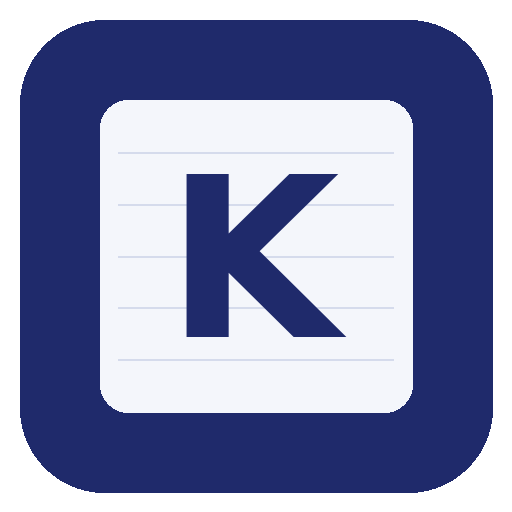
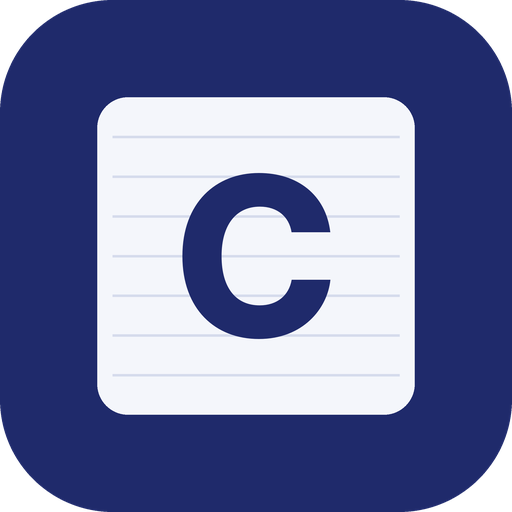
Rebrand website to CentraPlant on centraplant.com
- Brand name, app title and C icon across all pages
- CNAME moved to centraplant.com
- Tally Link renamed (CentraPlantTallyLink.ps1, v1.4) and removes the old Kalavara task on install
- Service worker suite-v69

Claude-Session: https://claude.ai/code/session_01Vw1GBJNaNCWaBvuJRSgbRt

Changed region(s): [[0.1875, 0.1875, 0.8125, 0.8125], [0.0, 0.0, 1.0, 1.0]]

diff --git a/assets/company.js b/assets/company.js
@@ -639,7 +639,7 @@
     return { call: call };
   })();
 
-  /* ---------------- 6. accounts: Kalavara books or Tally ---------------- */
+  /* ---------------- 6. accounts: CentraPlant books or Tally ---------------- */
   var ACC = null;
 
   function accCall(action, payload) {
@@ -685,20 +685,20 @@
     body.innerHTML = '<div class="panel"><h3>6. Accounts</h3>' +
       '<p class="muted" style="margin:0 0 16px">Where do you keep your accounts? Trade Recon, Cash Recon, Profit & Loss and the MIS Dashboard read the books from here.</p>' +
       '<div class="bk-modes">' +
-        '<label class="bk-mode' + (!tally ? " on" : "") + '"><input type="radio" name="accSrc" value="books"' + (!tally ? " checked" : "") + '><span><b>In Kalavara (Accounting-Books)</b><small>For companies without Tally. Ledgers, GST bills, receipts and payments, with Tally-style keys.</small></span></label>' +
-        '<label class="bk-mode' + (tally ? " on" : "") + '"><input type="radio" name="accSrc" value="tally"' + (tally ? " checked" : "") + '><span><b>In Tally</b><small>You already use Tally. Kalavara reads your ledgers, stock items and vouchers from it automatically.</small></span></label>' +
+        '<label class="bk-mode' + (!tally ? " on" : "") + '"><input type="radio" name="accSrc" value="books"' + (!tally ? " checked" : "") + '><span><b>In CentraPlant (Accounting-Books)</b><small>For companies without Tally. Ledgers, GST bills, receipts and payments, with Tally-style keys.</small></span></label>' +
+        '<label class="bk-mode' + (tally ? " on" : "") + '"><input type="radio" name="accSrc" value="tally"' + (tally ? " checked" : "") + '><span><b>In Tally</b><small>You already use Tally. CentraPlant reads your ledgers, stock items and vouchers from it automatically.</small></span></label>' +
       "</div>" +
       (tally ?
         '<div class="acc-tally">' +
           '<div class="acc-status">' + status + "</div>" + nameNote +
           '<ol class="acc-steps">' +
             "<li><b>Switch on Tally's connection.</b> In Tally: <b>F1 (Help) → Settings → Connectivity → Client/Server configuration</b>. Set <i>TallyPrime acts as</i> to <b>Both</b> and <i>Port</i> to <b>9000</b>, then Ctrl + A. Keep Tally open with <b>" + esc(a.company || "your company") + "</b> loaded.</li>" +
-            "<li><b>Download Kalavara Tally Link</b> on the PC where Tally runs. It's a small script, already paired with this company." +
+            "<li><b>Download CentraPlant Tally Link</b> on the PC where Tally runs. It's a small script, already paired with this company." +
               '<div class="row-actions" style="margin-top:8px"><button class="btn btn-ink btn-small" type="button" id="accKey">' + (a.linked ? "Download again (new code)" : "Pair and download") + "</button>" +
               (a.linked ? '<button class="btn btn-line btn-small btn-danger" type="button" id="accUnlink">Unpair</button>' : "") + "</div>" +
               (a.linked ? '<p class="muted" style="margin:6px 0 0">Paired with code ending …' + esc(a.keyHint) + ". Downloading again makes a new code; the old script stops working.</p>" : "") + "</li>" +
             "<li><b>Start it once.</b> Open <b>PowerShell</b> (Start → type PowerShell) and paste:" +
-              '<pre class="acc-cmd" id="accCmd">powershell -ExecutionPolicy Bypass -File "$HOME\\Downloads\\KalavaraTallyLink.ps1" -Install</pre>' +
+              '<pre class="acc-cmd" id="accCmd">powershell -ExecutionPolicy Bypass -File "$HOME\\Downloads\\CentraPlantTallyLink.ps1" -Install</pre>' +
               '<button class="btn btn-line btn-small" type="button" id="accCopy">Copy</button>' +
               '<p class="muted" style="margin:6px 0 0">It sends your Tally data now, then every 15 minutes while you are signed in to Windows. To test without sending, put <b>-Check</b> instead of -Install.</p></li>' +
           "</ol>" +
@@ -714,7 +714,7 @@
         err.textContent = ""; msg.textContent = "Saving…";
         accCall("saveAccountsSource", { source: rd.value }).then(function (r) {
           var b = Suite.brandCached(); b.accounts = r.source; Suite.brandKeep(b);
-          after(r, r.source === "tally" ? "Accounts are kept in Tally. Pair it below. Accounting-Books leaves the menu the next time the portal opens." : "Accounts are kept in Kalavara (Accounting-Books).");
+          after(r, r.source === "tally" ? "Accounts are kept in Tally. Pair it below. Accounting-Books leaves the menu the next time the portal opens." : "Accounts are kept in CentraPlant (Accounting-Books).");
         }).catch(fail);
       };
     });
@@ -729,11 +729,11 @@
         var text = tpl.replace("__CORE_URL__", ps(Suite.client().api)).replace("__LINK_KEY__", ps(r.key)).replace("__COMPANY__", ps(r.company));
         var blob = new Blob(["" + text.replace(/\r?\n/g, "\r\n")], { type: "text/plain;charset=utf-8" });
         var link = document.createElement("a");
-        link.href = URL.createObjectURL(blob); link.download = "KalavaraTallyLink.ps1";
+        link.href = URL.createObjectURL(blob); link.download = "CentraPlantTallyLink.ps1";
         document.body.appendChild(link); link.click(); link.remove();
         setTimeout(function () { URL.revokeObjectURL(link.href); }, 4000);
         delete r.key;
-        after(r, "Downloaded KalavaraTallyLink.ps1. Now do step 3 on the Tally PC.");
+        after(r, "Downloaded CentraPlantTallyLink.ps1. Now do step 3 on the Tally PC.");
       }).catch(fail);
     };
     var un = body.querySelector("#accUnlink");

diff --git a/index.html b/index.html
@@ -11,7 +11,7 @@
 <link rel="apple-touch-icon" href="icons/apple-touch-icon.png">
 <meta name="apple-mobile-web-app-capable" content="yes">
 <meta name="mobile-web-app-capable" content="yes">
-<meta name="apple-mobile-web-app-title" content="Kalavara">
+<meta name="apple-mobile-web-app-title" content="CentraPlant">
 <meta name="apple-mobile-web-app-status-bar-style" content="default">
 <link rel="stylesheet" href="assets/site.css">
 <script src="assets/config.js"></script>
@@ -23,8 +23,8 @@
 <header class="bar">
   <div class="wrap">
     <a class="brand" data-page="index.html" aria-label="Home">
-      <span class="brand-mark" data-site-initial aria-hidden="true">K</span>
-      <span class="brand-name" data-site-name>Kalavara</span>
+      <span class="brand-mark" data-site-initial aria-hidden="true">C</span>
+      <span class="brand-name" data-site-name>CentraPlant</span>
     </a>
     <div class="bar-actions">
       <a class="bar-link" href="#contact">Contact us</a>
@@ -129,7 +129,7 @@
       $("cError").textContent = err;
       if (err) return;
       if (d.website) return;               // filled in by a bot, not a person
-      var text = "New enquiry from mykalavara.com\n\nName: " + d.name + "\nCompany: " + d.company + "\nPhone: " + d.phone +
+      var text = "New enquiry from centraplant.com\n\nName: " + d.name + "\nCompany: " + d.company + "\nPhone: " + d.phone +
         "\nCity: " + (d.city || "-") + "\nMakes / sells: " + (d.what || "-") + "\n\n" + (d.note || "");
       function done(msg) { f.querySelectorAll(".field, #cSend").forEach(function (el) { el.hidden = true; }); $("cDone").textContent = msg; $("cDone").hidden = false; }
       if (C.leadsUrl) {
@@ -142,7 +142,7 @@
             $("cError").innerHTML = 'That didn\'t go through. Please try again, or email us at <a href="mailto:' + Suite.esc(C.email || "") + '">' + Suite.esc(C.email || "") + "</a>.";
           });
       } else {
-        location.href = "mailto:" + (C.email || "") + "?subject=" + encodeURIComponent("Kalavara enquiry: " + d.company) + "&body=" + encodeURIComponent(text);
+        location.href = "mailto:" + (C.email || "") + "?subject=" + encodeURIComponent("CentraPlant enquiry: " + d.company) + "&body=" + encodeURIComponent(text);
         done("Your email app should open with the details filled in. Press Send there and we'll call you within one working day.");
       }
     });

diff --git a/assets/site.js b/assets/site.js
@@ -208,7 +208,7 @@
         var before = b.accounts || "books";
         r.brand.accounts = r.accounts || "books";
         brandKeep(r.brand); applyBrand(r.brand);
-        // accounts moved between Kalavara and Tally: redraw the menu once
+        // accounts moved between CentraPlant and Tally: redraw the menu once
         if (before !== r.brand.accounts && typeof window.onAccountsChanged === "function") window.onAccountsChanged();
         return r.brand;
       }
@@ -227,7 +227,7 @@
     });
   }
 
-  /* Kalavara's own contact buttons (WhatsApp, call, email), put together in the browser only */
+  /* CentraPlant's own contact buttons (WhatsApp, call, email), put together in the browser only */
   function contactInfo() {
     var C = window.CONTACT || {};
     var digits = (C.phone || []).join("");
@@ -237,7 +237,7 @@
   function contactHtml(withEmail) {
     var c = contactInfo(), h = "";
     if (c.digits) h += '<a class="btn btn-ink btn-small" target="_blank" rel="noopener" href="https://wa.me/' + c.digits +
-      "?text=" + encodeURIComponent("Hello, I'd like to know more about Kalavara.") + '">WhatsApp us</a>' +
+      "?text=" + encodeURIComponent("Hello, I'd like to know more about CentraPlant.") + '">WhatsApp us</a>' +
       '<a class="btn btn-line btn-small" href="tel:+' + c.digits + '">Call ' + esc(c.shown) + "</a>";
     h = '<span class="contact-btns">' + h + "</span>";
     if (withEmail !== false && c.email) h += '<span>Email: <a href="mailto:' + esc(c.email) + '">' + esc(c.email) + "</a></span>";

diff --git a/assets/config.js b/assets/config.js
@@ -2,7 +2,7 @@
    SITE SETTINGS  —  change the suite name here, nowhere else.
    ============================================================ */
 window.SITE = {
-  name: "Kalavara",
+  name: "CentraPlant",
   tagline: "Stock, sales and accounts for growing factories, in one place.",
   credit: "Designed by rawsploit@gmail.com",
   year: 2026
@@ -40,7 +40,7 @@ window.MODULES = [
 /* Contact section on the home page.
    The email and phone are kept in pieces and only put together in the browser,
    so spam robots reading the page source don't find them.
-   leadsUrl = the Kalavara Leads web app URL (saves each enquiry to a sheet and emails you);
+   leadsUrl = the CentraPlant Leads web app URL (saves each enquiry to a sheet and emails you);
    blank = the form opens the visitor's email app instead. */
 window.CONTACT = {
   mail: ["rawsploit", "gmail", "com"],
@@ -57,7 +57,7 @@ window.CLIENTS = {
     /* demo: Accounting-Books runs as a self-contained preview (data stays in the browser tab) */
     modules: { books: "demo/accounting-books.html" }
   },
-  /* first real test deployment (Kalavara Demo folder, sample data only) */
+  /* first real test deployment (CentraPlant Demo folder, sample data only) */
   test: {
     name: "HyGenie Pvt. Ltd.",
     logo: "",

diff --git a/assets/sales-desk.js b/assets/sales-desk.js
@@ -175,7 +175,7 @@
   }
 
   /* Tally companies only: how the two shop lists differ, shown above the table.
-     Kalavara shops with no Sundry Debtor in Tally need a ledger before their bills are entered. */
+     CentraPlant shops with no Sundry Debtor in Tally need a ledger before their bills are entered. */
   function tallyGap(body) {
     var box = body.querySelector("#shTallyGap");
     if (!box) return;
@@ -224,7 +224,7 @@
     box.innerHTML = '<div class="panel" style="margin:12px 0"><p>Reading the shops from Tally…</p></div>';
     call("tallyNewShops", {}).then(function (r) {
       if (!r.tally) {
-        box.innerHTML = '<div class="panel" style="margin:12px 0"><p>This company keeps its accounts in Kalavara, not Tally. ' +
+        box.innerHTML = '<div class="panel" style="margin:12px 0"><p>This company keeps its accounts in CentraPlant, not Tally. ' +
           'To use this, choose Tally under Company setup → Accounts and pair the Tally Link.</p><button class="btn btn-line btn-small" type="button" data-x>Close</button></div>';
         box.querySelector("[data-x]").onclick = function () { box.innerHTML = ""; };
         return;

diff --git a/portal.html b/portal.html
@@ -10,7 +10,7 @@
 <link rel="apple-touch-icon" href="icons/apple-touch-icon.png">
 <meta name="apple-mobile-web-app-capable" content="yes">
 <meta name="mobile-web-app-capable" content="yes">
-<meta name="apple-mobile-web-app-title" content="Kalavara">
+<meta name="apple-mobile-web-app-title" content="CentraPlant">
 <meta name="apple-mobile-web-app-status-bar-style" content="default">
 <link rel="stylesheet" href="assets/site.css">
 <script src="assets/config.js"></script>
@@ -29,8 +29,8 @@
   <aside class="side" id="side">
     <div class="side-top">
       <a class="brand" data-page="portal.html" aria-label="Home">
-        <span class="brand-mark" data-site-initial aria-hidden="true">K</span>
-        <span class="brand-name" data-site-name>Kalavara</span>
+        <span class="brand-mark" data-site-initial aria-hidden="true">C</span>
+        <span class="brand-name" data-site-name>CentraPlant</span>
       </a>
       <img class="side-logo" data-client-logo hidden alt="">
       <div class="side-client" data-client-name></div>

diff --git a/login.html b/login.html
@@ -10,7 +10,7 @@
 <link rel="apple-touch-icon" href="icons/apple-touch-icon.png">
 <meta name="apple-mobile-web-app-capable" content="yes">
 <meta name="mobile-web-app-capable" content="yes">
-<meta name="apple-mobile-web-app-title" content="Kalavara">
+<meta name="apple-mobile-web-app-title" content="CentraPlant">
 <meta name="apple-mobile-web-app-status-bar-style" content="default">
 <link rel="stylesheet" href="assets/site.css">
 <script src="assets/config.js"></script>
@@ -22,8 +22,8 @@
 <header class="bar">
   <div class="wrap">
     <a class="brand" data-page="index.html" aria-label="Home">
-      <span class="brand-mark" data-site-initial aria-hidden="true">K</span>
-      <span class="brand-name" data-site-name>Kalavara</span>
+      <span class="brand-mark" data-site-initial aria-hidden="true">C</span>
+      <span class="brand-name" data-site-name>CentraPlant</span>
     </a>
   </div>
 </header>

diff --git a/setup.html b/setup.html
@@ -10,7 +10,7 @@
 <link rel="apple-touch-icon" href="icons/apple-touch-icon.png">
 <meta name="apple-mobile-web-app-capable" content="yes">
 <meta name="mobile-web-app-capable" content="yes">
-<meta name="apple-mobile-web-app-title" content="Kalavara">
+<meta name="apple-mobile-web-app-title" content="CentraPlant">
 <meta name="apple-mobile-web-app-status-bar-style" content="default">
 <link rel="stylesheet" href="assets/site.css">
 <script src="assets/config.js"></script>
@@ -22,8 +22,8 @@
 <header class="bar">
   <div class="wrap">
     <a class="brand" data-page="index.html" aria-label="Home">
-      <span class="brand-mark" data-site-initial aria-hidden="true">K</span>
-      <span class="brand-name" data-site-name>Kalavara</span>
+      <span class="brand-mark" data-site-initial aria-hidden="true">C</span>
+      <span class="brand-name" data-site-name>CentraPlant</span>
     </a>
   </div>
 </header>

diff --git a/catalog.html b/catalog.html
@@ -10,7 +10,7 @@
 <link rel="apple-touch-icon" href="icons/apple-touch-icon.png">
 <meta name="apple-mobile-web-app-capable" content="yes">
 <meta name="mobile-web-app-capable" content="yes">
-<meta name="apple-mobile-web-app-title" content="Kalavara">
+<meta name="apple-mobile-web-app-title" content="CentraPlant">
 <meta name="apple-mobile-web-app-status-bar-style" content="default">
 <link rel="stylesheet" href="assets/site.css">
 <script src="assets/config.js"></script>
@@ -78,7 +78,7 @@
 <header class="bar">
   <div class="wrap">
     <a class="brand" data-page="catalog.html" aria-label="Products">
-      <span class="brand-mark" data-site-initial aria-hidden="true">K</span>
+      <span class="brand-mark" data-site-initial aria-hidden="true">C</span>
       <span class="brand-name" data-client-name></span>
     </a>
     <div class="bar-actions">

diff --git a/assets/site.css b/assets/site.css
@@ -513,7 +513,7 @@ body.has-accent.login-page .login-card h2, body.has-accent .main-bar h2 { color:
 .bk-preview.top .bk-main { flex: 1; }
 @media (max-width: 1100px) { .bk-grid.with-list { grid-template-columns: 200px minmax(0, 1fr); } .bk-grid.with-list .bk-prev { grid-column: 1 / -1; } }
 @media (max-width: 760px) { .bk-modes, .bk-grid.with-list { grid-template-columns: 1fr; } }
-/* accounts step: Kalavara books or Tally */
+/* accounts step: CentraPlant books or Tally */
 .acc-tally { margin-top: 18px; border-top: 1px solid var(--rule); padding-top: 16px; }
 .acc-status { margin-bottom: 10px; display: flex; gap: 10px; align-items: center; flex-wrap: wrap; }
 .acc-steps { padding-left: 20px; margin: 0 0 14px; }

diff --git a/sw.js b/sw.js
@@ -1,7 +1,7 @@
 /* Service worker: makes the site installable, keeps the app shell
    available offline, and shows a "No signal" page when offline.
    Bump VERSION whenever the shell files change. */
-const VERSION = "suite-v68";
+const VERSION = "suite-v69";
 const SHELL = [
   "./", "index.html", "login.html", "portal.html", "catalog.html", "setup.html", "offline.html", "billing.html", "invoice.html", "store.html",
   "assets/site.css", "assets/site.js", "assets/config.js", "assets/people.js", "assets/company.js", "assets/catalog-admin.js", "assets/storefront-admin.js", "assets/billing.js", "assets/sales-desk.js", "assets/tally-books.js", "assets/xlsx.js", "assets/qr.js", "assets/install.js",

diff --git a/billing.html b/billing.html
@@ -10,7 +10,7 @@
 <link rel="apple-touch-icon" href="icons/apple-touch-icon.png">
 <meta name="apple-mobile-web-app-capable" content="yes">
 <meta name="mobile-web-app-capable" content="yes">
-<meta name="apple-mobile-web-app-title" content="Kalavara">
+<meta name="apple-mobile-web-app-title" content="CentraPlant">
 <link rel="stylesheet" href="assets/site.css">
 <script src="assets/config.js"></script>
 <script src="assets/site.js"></script>
